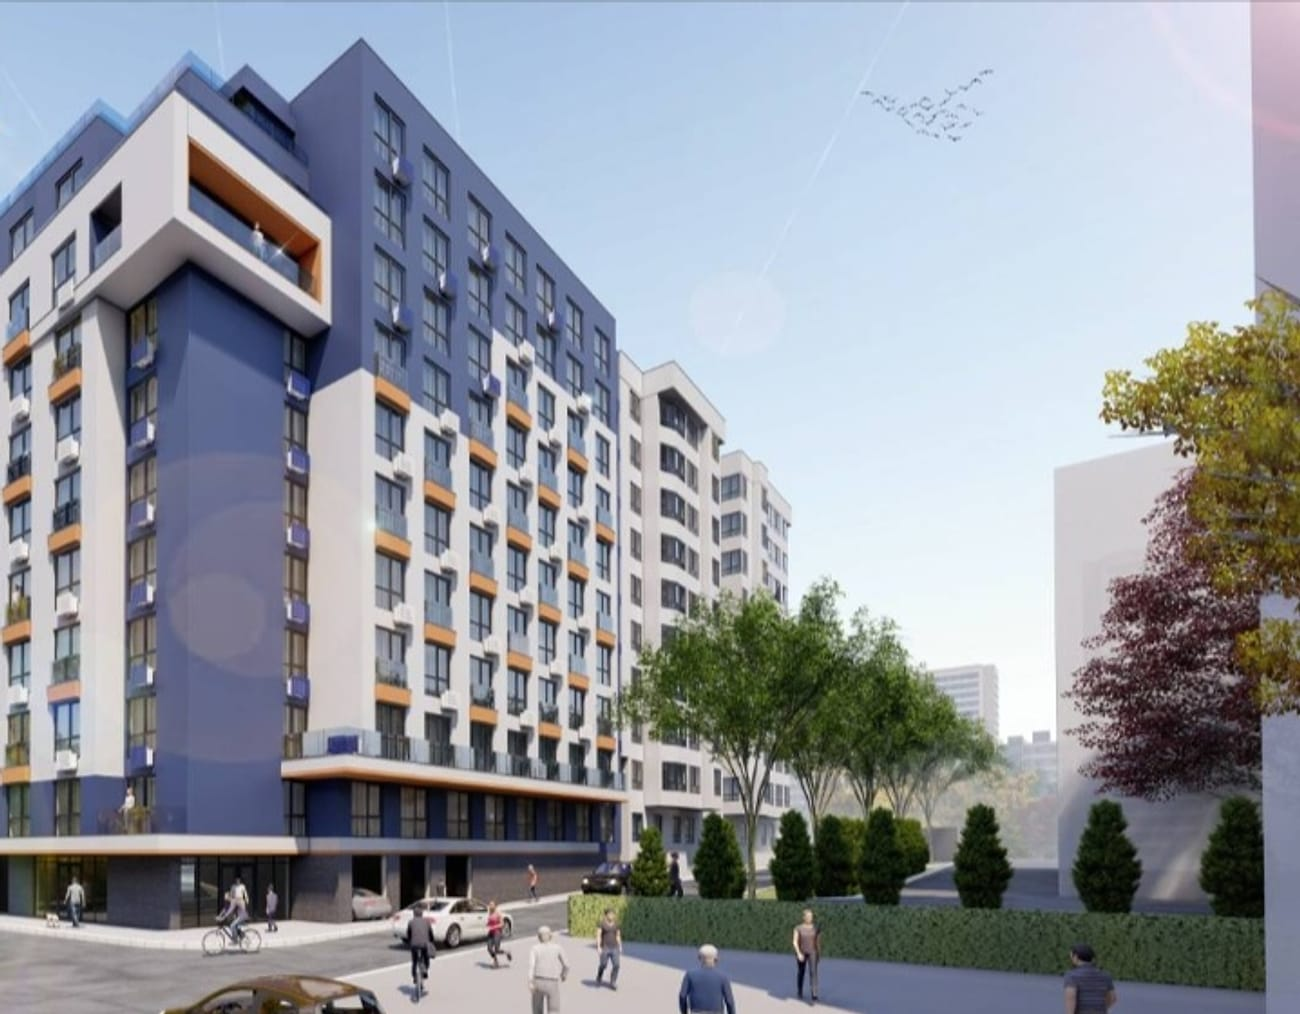
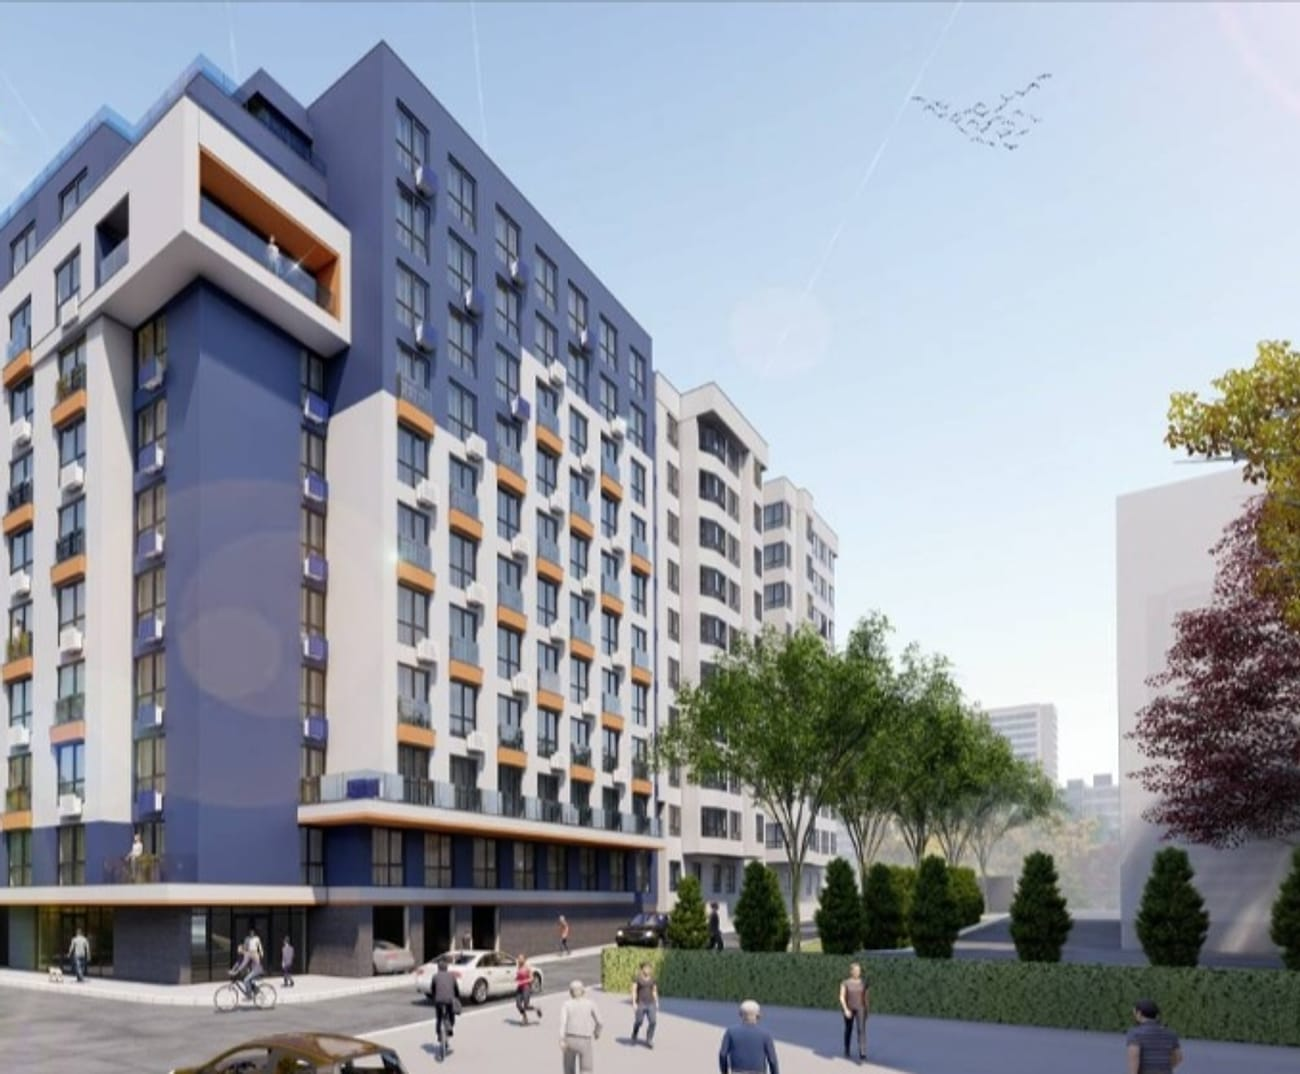
fix(ui): keep mask-reveal clip off the observed element; tighten BS2 3-4 crop
Chromium applies a target's own clip-path when computing intersections, so a
wrapper clipped to nothing never entered the viewport: the reveal never fired
and the lazy image inside never loaded. The clip now sits on the child.

diff --git a/src/app/globals.css b/src/app/globals.css
@@ -290,19 +290,24 @@ body {
   /* ------------------------------------------------------------------
      Image mask reveal (see <Reveal variant="mask">). The frame opens from
      the bottom edge while the image inside settles from a slight zoom.
+
+     The clip goes on the CHILD, never on the observed wrapper: Chromium
+     applies a target's own clip-path when computing intersections, so a
+     wrapper clipped to nothing never "enters" the viewport — the reveal
+     would never fire and the lazy <img> inside would never load.
      ------------------------------------------------------------------ */
-  [data-mask='hidden'] {
+  [data-mask='hidden'] > * {
     clip-path: inset(100% 0 0 0);
   }
   [data-mask='hidden'] img {
     transform: scale(1.12);
   }
-  [data-mask='shown'] {
+  [data-mask='shown'] > * {
     clip-path: inset(0 0 0 0);
-    transition: clip-path 1.2s var(--ease-arch);
+    transition: clip-path 1.2s var(--ease-arch) var(--mask-delay, 0s);
   }
   [data-mask='shown'] img {
-    transition: transform 1.6s var(--ease-premium);
+    transition: transform 1.6s var(--ease-premium) var(--mask-delay, 0s);
   }
 }
 

diff --git a/src/components/home/CompanyBrief.tsx b/src/components/home/CompanyBrief.tsx
@@ -51,12 +51,10 @@ export function CompanyBrief({ locale, dict }: { locale: Locale; dict: Dictionar
       </div>
 
       <div className="mt-10 grid gap-y-12 md:mt-14 md:gap-y-16 lg:grid-cols-12 lg:gap-x-gutter">
-        {/* Mask reveal. The clip is drawn on the inner frame, not on the
-            observed element: Chromium's IntersectionObserver honours the
-            target's own clip-path, so a fully clipped target never reports
-            as visible and would stay hidden. */}
-        <Reveal variant="mask" style={{ clipPath: 'none' }} className="lg:col-span-6">
-          <div className="relative aspect-[4/5] transition-[clip-path] duration-1200 ease-arch [clip-path:inset(0_0_0_0)] md:aspect-[3/2] lg:aspect-[4/5] [[data-mask=hidden]_&]:[clip-path:inset(100%_0_0_0)]">
+        {/* Mask reveal: the global [data-mask] rule clips this inner frame,
+            leaving the observed wrapper unclipped (see globals.css). */}
+        <Reveal variant="mask" className="lg:col-span-6">
+          <div className="relative aspect-[4/5] md:aspect-[3/2] lg:aspect-[4/5]">
             <Media
               src={PHOTO}
               alt={alt}

diff --git a/src/components/ui/Reveal.tsx b/src/components/ui/Reveal.tsx
@@ -84,7 +84,9 @@ export function Reveal({
 
   if (variant === 'mask') {
     data = { 'data-mask': state === 'init' ? undefined : state };
-    if (delay) style = { ...style, transitionDelay: `${delay}s` };
+    // The clip and its transition live on the child (see globals.css), so the
+    // delay travels down as a custom property.
+    if (delay) style = { ...style, ['--mask-delay' as string]: `${delay}s` };
   } else if (stagger) {
     data = { 'data-reveal': state === 'init' ? undefined : state };
   } else {
